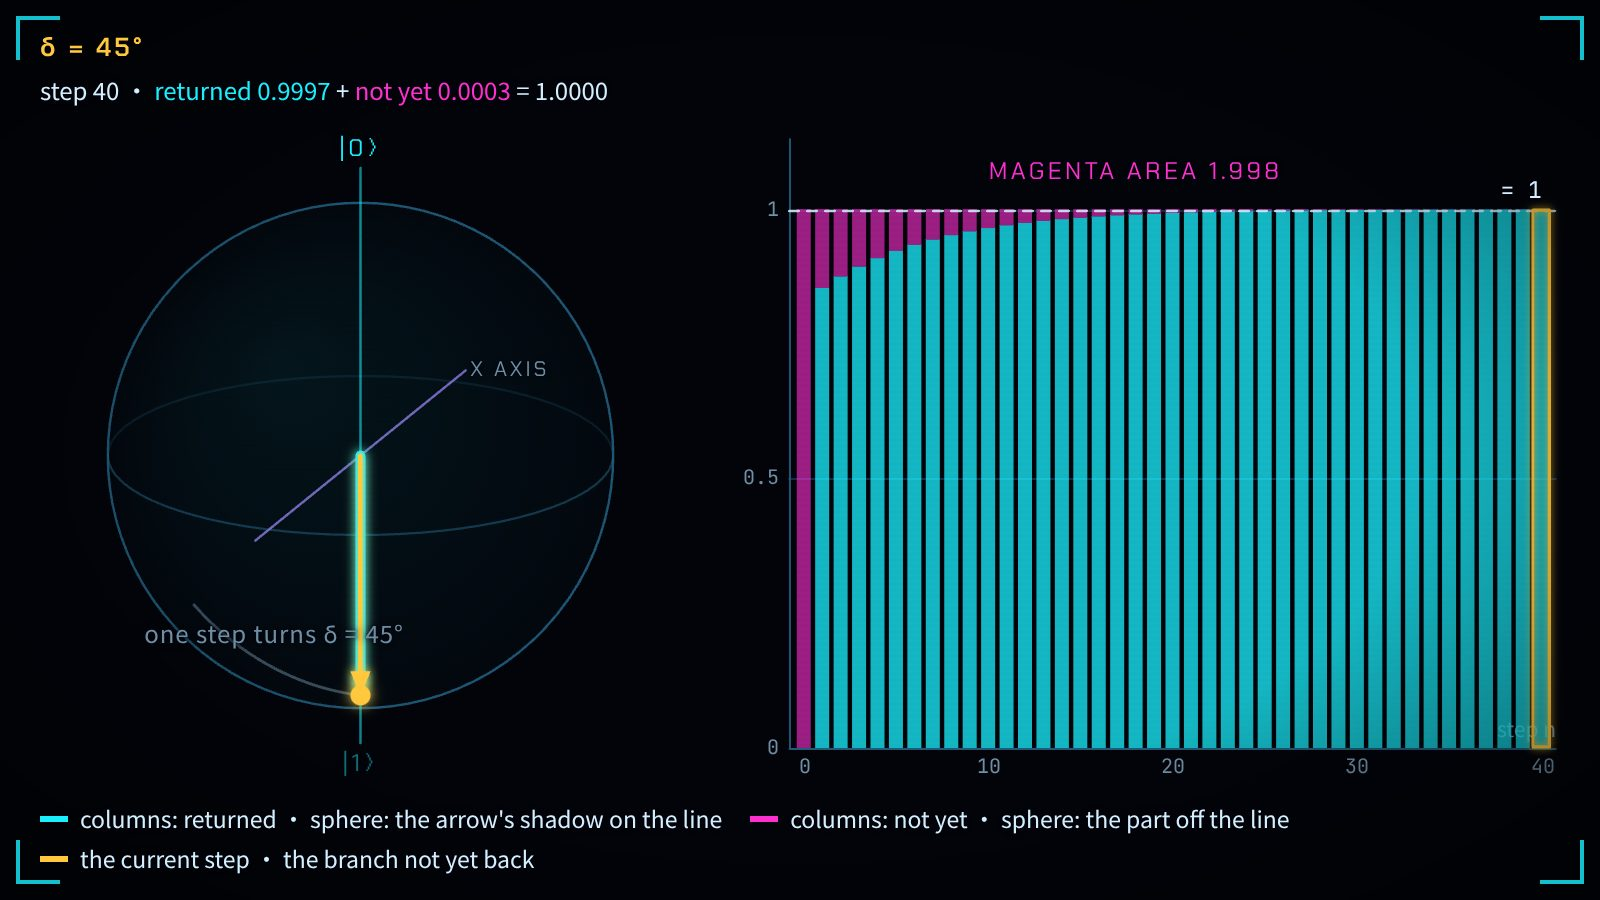
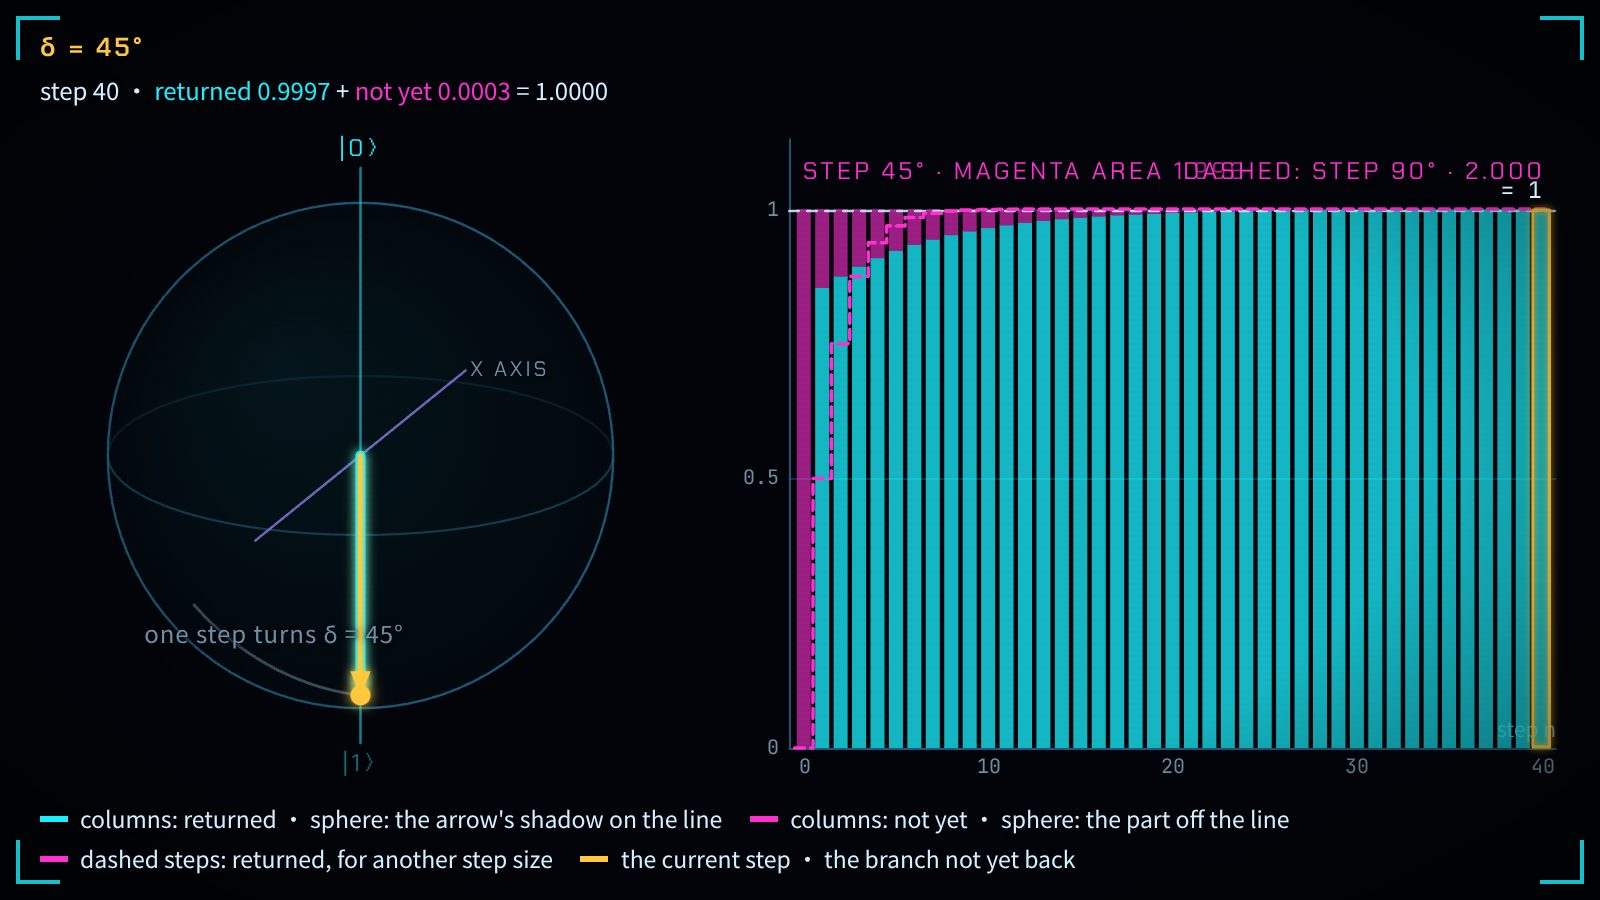
speed-limit-zeno: the mean card overlays the 90° ledger as a dashed staircase with the same area; strobe16 still removed

diff --git a/books/quantum-geometry/viz/speed-limit-zeno/main.js b/books/quantum-geometry/viz/speed-limit-zeno/main.js
@@ -74,7 +74,10 @@
   /* ---------- state ---------- */
   const S = { scene: 'speed', levels: 3, alpha: 45, N: 4, delta: 45 };
   let SF = speedFacts(weights(S.levels, S.alpha)), MON = monitor(S.delta * DEG, ITER);
-  const refresh = () => { SF = speedFacts(weights(S.levels, S.alpha)); MON = monitor(S.delta * DEG, ITER); };
+  // a second step size drawn as a dashed staircase over the columns: a different shape, the same magenta area
+  const cmpDelta = () => (S.delta === 90 ? 45 : 90);
+  let CMP = monitor(cmpDelta() * DEG, ITER);
+  const refresh = () => { SF = speedFacts(weights(S.levels, S.alpha)); MON = monitor(S.delta * DEG, ITER); CMP = monitor(cmpDelta() * DEG, ITER); };
 
   /* ---------- layout: the object on the left (or on top), its chart on the right (or below) ---------- */
   let boxes = null, chart = null;
@@ -250,12 +253,18 @@
       if (m.s_[n] > 1e-9) f.rect(n - hw, returned, n + hw, 1, P.magenta, { alpha: 0.6 });
     }
     f.hline(1, P.ink, { dash: [5, 4], alpha: 0.85, width: 1.2 * TH });
+    // the other step size: the top of its returned part, as a staircase, and its magenta area so far
+    let back2 = 0, area2 = 0; const stair = [];
+    for (let n = 0; n <= j; n++) { if (n >= 1) back2 += CMP.p[n]; area2 += CMP.s_[n]; stair.push([n - 0.5, back2], [n + 0.5, back2]); }
+    f.line(stair, P.magenta, { width: 1.8 * TH, dash: [5, 3] });
     f.rect(j - hw - 0.12, 0, j + hw + 0.12, 1, P.amber, { fill: false, stroke: P.amber, width: 1.6 * TH, glow: 8 });
     if (!TRV.thumbMode) {
       tagAt('one', f, NR, 1, L('= 1', '= 1'), 'num', -10, -10);
-      tagAt('area', f, NR * 0.45, 1.07, L(`品红面积 ${fix(area, 3)}`, `magenta area ${fix(area, 3)}`), 'mg', 0, 0);
+      // tags are set in capitals, which would turn δ into Δ: the step size is written in words here
+      tagAt('area', f, NR * 0.3, 1.07, L(`步长 ${S.delta}° · 品红面积 ${fix(area, 3)}`, `step ${S.delta}° · magenta area ${fix(area, 3)}`), 'mg', 0, 0);
+      tagAt('area2', f, NR * 0.76, 1.07, L(`虚线 步长 ${cmpDelta()}° · ${fix(area2, 3)}`, `dashed: step ${cmpDelta()}° · ${fix(area2, 3)}`), 'mg', 0, 0);
     }
-    return { j, fr, r, returned, area, notYet: m.s_[j] };
+    return { j, fr, r, returned, area, notYet: m.s_[j], cmp: { delta: cmpDelta(), returned: back2, area: area2 } };
   }
 
   /* ---------- stage ---------- */
@@ -325,7 +334,7 @@
   const LEGEND = {
     speed: [['cy', '到起点的夹角 θ；左边：重叠的各支', 'angle θ to the start; left: the parts of the overlap'], ['dm', '速度线 ΔH·t', 'speed line ΔH·t'], ['mg', '90° 的墙；左边：重叠为 0', 'the 90° wall; left: zero overlap'], ['am', '此刻', 'now']],
     zeno: [['cy', '线上的影子 · 留下的概率', 'shadow on the line · chance to stay'], ['mg', '离开线的一份 · 走掉的概率', 'part off the line · chance gone'], ['dm', '不看时的路', 'the unwatched path'], ['am', '当前的箭头', 'the current arrow']],
-    return: [['cy', '柱：已返回 · 球：箭头在线上的影子', 'columns: returned · sphere: the arrow\'s shadow on the line'], ['mg', '柱：还没回来 · 球：离开线的一份', 'columns: not yet · sphere: the part off the line'], ['am', '当前这一步 · 还没回来的那一支', 'the current step · the branch not yet back']]
+    return: [['cy', '柱：已返回 · 球：箭头在线上的影子', 'columns: returned · sphere: the arrow\'s shadow on the line'], ['mg', '柱：还没回来 · 球：离开线的一份', 'columns: not yet · sphere: the part off the line'], ['mg', '虚线台阶：另一个步长的已返回', 'dashed steps: returned, for another step size'], ['am', '当前这一步 · 还没回来的那一支', 'the current step · the branch not yet back']]
   };
   function drawText() {
     const t = clock.t;
@@ -429,7 +438,7 @@
     unequal: ['权重角 α = 30°：左边长箭头 0.75、短箭头 0.25，怎么转也抵消不完，琥珀色的点绕着青色虚线圆走，离品红的圆心最近 0.5。右边夹角最多升到 60°，碰不到品红的墙。', 'Weight angle α = 30°: on the left a long arrow of 0.75 and a short one of 0.25 never cancel; the amber dot circles outside the dashed cyan ring and comes no closer than 0.5 to the magenta centre. On the right the angle rises to 60° at most and never touches the magenta wall.'],
     strobe4: ['频闪 4 次，停在第 4 次测量之前：箭头刚转完这一段的 45°（青色的弧），离开线的品红横段长 sin 45° ≈ 0.71，是一阶；青色的影子只短了 1 − cos 45° ≈ 0.29，是二阶。右边留下的概率每测一次降一截，此刻 0.531；虚线是不看时的路，到 180° 全部走掉。', 'Four strobes, stopped before the fourth look: the arrow has just finished this 45° turn (the cyan arc); the magenta part off the line is sin 45° ≈ 0.71 long, first order, while the cyan shadow is only 1 − cos 45° ≈ 0.29 shorter, second order. On the right the chance to stay drops a step at every look and is 0.531 now; the dashed line is the unwatched path, which loses everything by 180°.'],
     strobe16: ['频闪 16 次，停在最后一段的半途：每段只转 11.25°，品红的一份刚露头就被拉回，青色的影子几乎不短。右边青色几乎铺满，此刻还剩 0.863，终点 N = 16 的环是 0.857。', 'Sixteen strobes, stopped half-way through the last turn: each turn is only 11.25°; the magenta part barely shows before the arrow is pulled back, and the cyan shadow hardly shortens. On the right the cyan nearly fills the plot: 0.863 is left now, and the ring at the end, N = 16, is 0.857.'],
-    mean: ['δ = 45°：每一步之后问一次“回来了吗”。第一根之后的柱子青色涨、品红缩，每根都正好到 1 这条线；品红面积从 1 涨向 2。', 'δ = 45°: after every step ask “back yet?”. Past the first column the cyan grows and the magenta shrinks, and every column reaches exactly the line at 1; the magenta area grows from 1 towards 2.']
+    mean: ['δ = 45°：每一步之后问一次“回来了吗”。第一根之后的柱子青色涨、品红缩，每根都正好到 1 这条线；品红面积从 1 涨向 2。品红虚线台阶是步长 δ = 90° 的同一本账：第一步就回来一半，此后很快回满，形状完全不同，品红面积同样走到 2。', 'δ = 45°: after every step ask “back yet?”. Past the first column the cyan grows and the magenta shrinks, and every column reaches exactly the line at 1; the magenta area grows from 1 towards 2. The dashed magenta staircase is the same ledger for the step δ = 90°: half comes back at the first step and the rest soon after, a quite different shape, yet its magenta area also reaches 2.']
   };
   let booting = true, moving = null;
   function applyPreset(id) {
@@ -471,7 +480,7 @@
         scene: S.scene, levels: S.levels, alpha: S.alpha, N: S.N, delta: S.delta, t, max: clock.max, playing: clock.playing, preset: cards.current,
         speed: { w: SF.w.slice(), theta: angleOf(SF.w, t), overlap: overlap(SF.w, t), arc: SF.dH * t, dH: SF.dH, meanH: SF.meanH, tauMT: SF.tauMT, tauML: SF.tauML, tauPerp: SF.tauPerp, minOv: SF.minOv, maxAngle: SF.maxAngle },
         zeno: { k: z.k, phi: z.phi, p1: z.p1, S: z.S, PN: z.PN },
-        ret: { j, p: MON.p.slice(0, NR + 1), s: MON.s_.slice(0, NR + 1), returned, notYet: MON.s_[j], mean: MON.mean, meanNp: MON.meanNp, sumP: MON.sumP },
+        ret: { j, p: MON.p.slice(0, NR + 1), s: MON.s_.slice(0, NR + 1), returned, notYet: MON.s_[j], mean: MON.mean, meanNp: MON.meanNp, sumP: MON.sumP, cmp: last && last.cmp ? Object.assign({}, last.cmp) : null },
         arrow: last && last.r ? last.r.slice() : null
       };
     },
